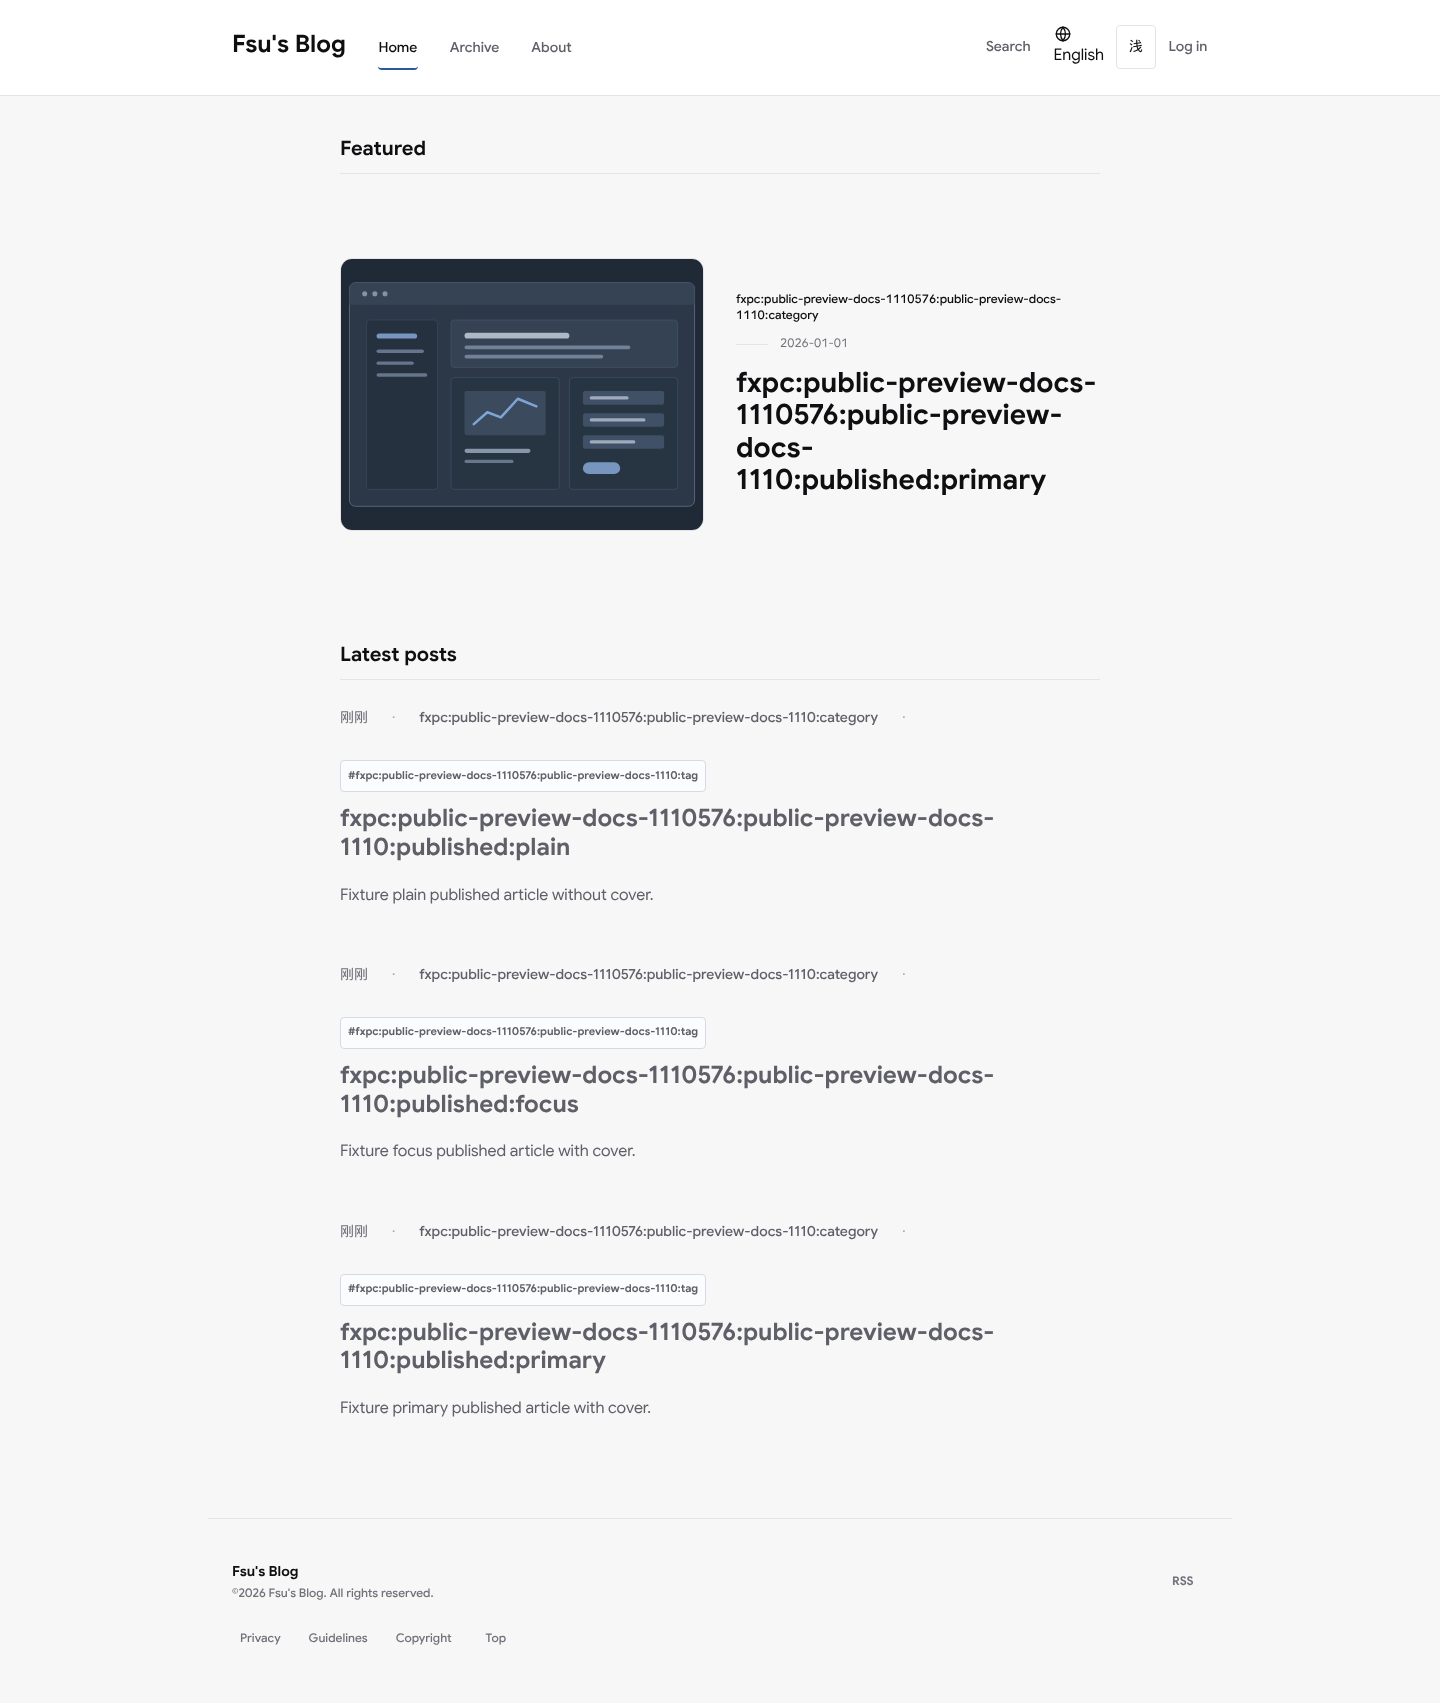
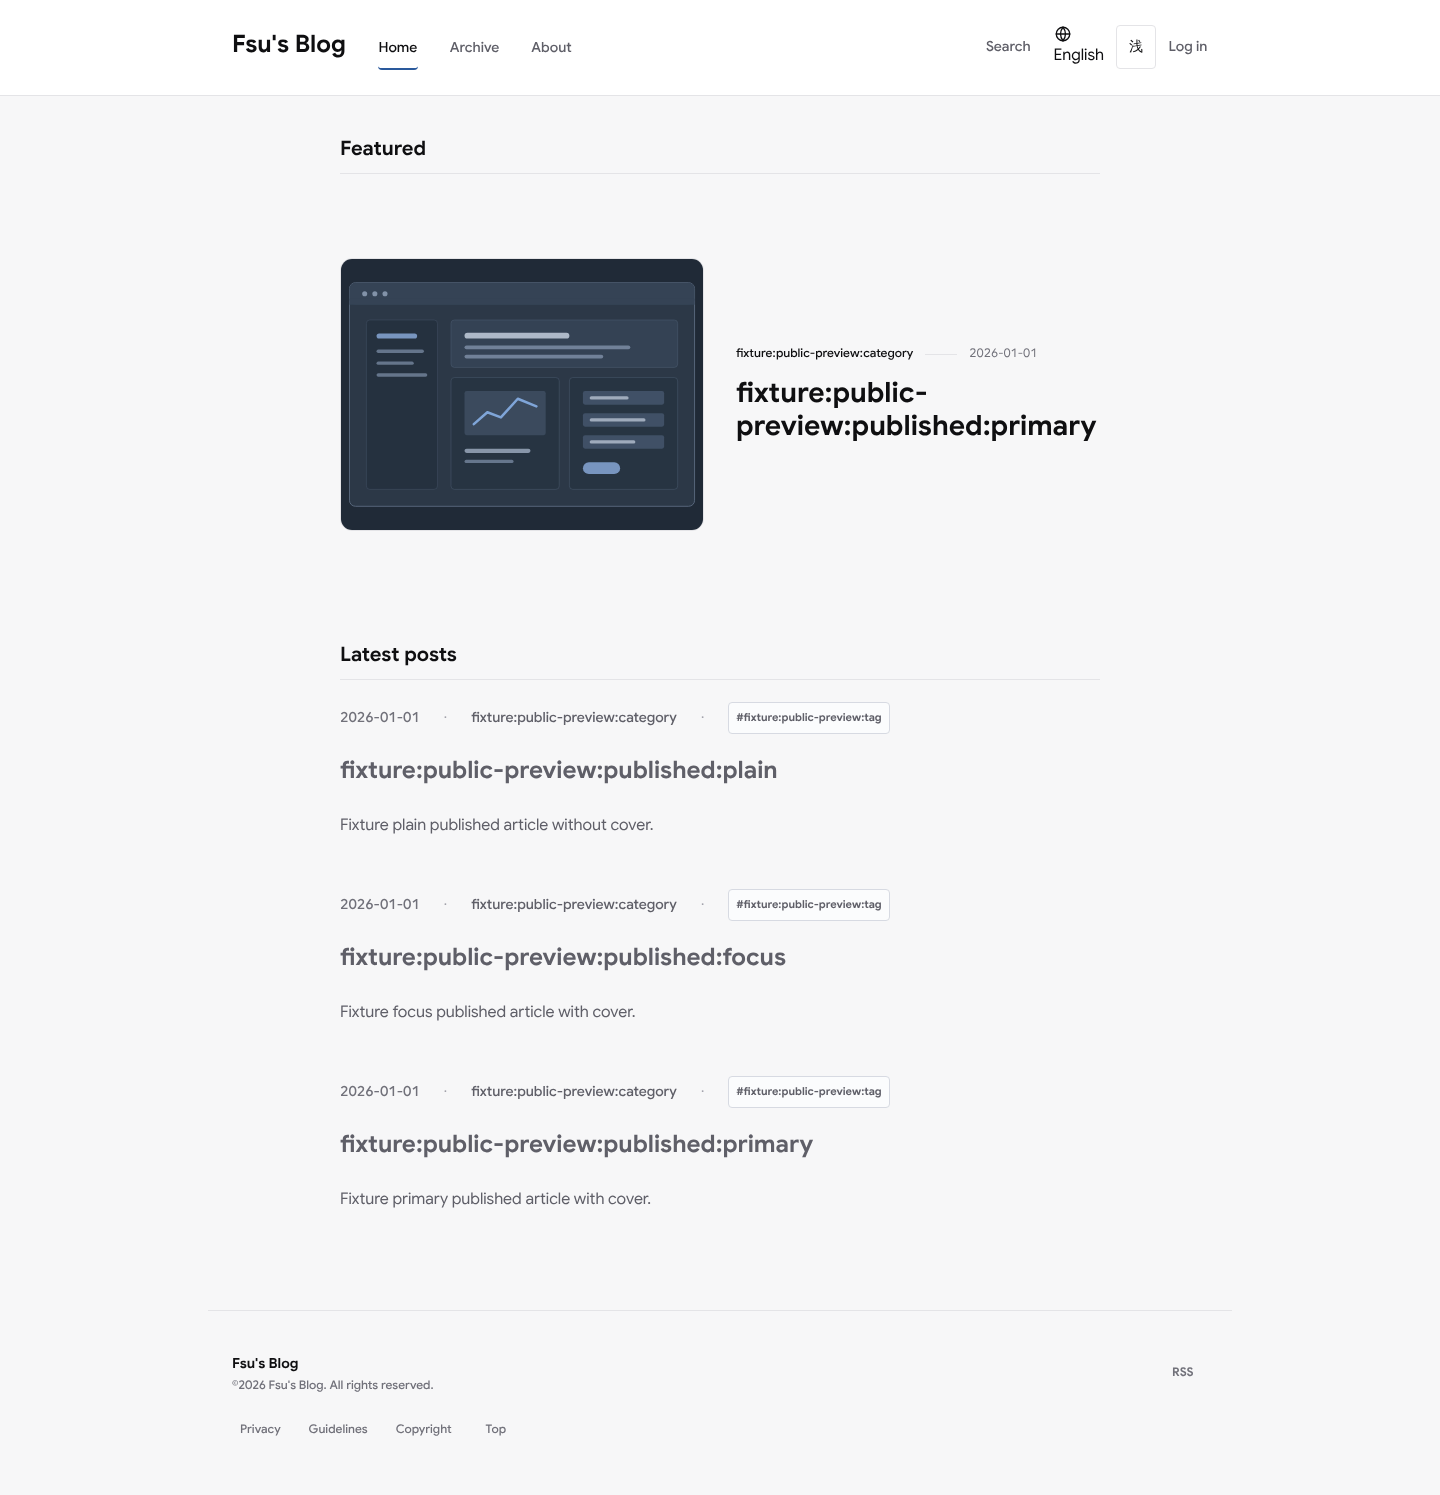
fix(governance): restore current static-governance baseline
Restore the current static-governance ownership registries, deterministic public-preview evidence, and bounded zero-downtime rehearsal coordination.\n\nRefs: #2859

diff --git a/tests/frontend/support/playwright/acceptance-shared.ts b/tests/frontend/support/playwright/acceptance-shared.ts
@@ -220,9 +220,13 @@ let acceptanceNodePowModulePromise: Promise<AcceptancePowRuntimeModule | null> |
 let acceptanceContextCounter = 0
 let acceptanceDeviceFingerprintCounter = 0
 
+function acceptanceMonotonicNow(): number {
+  return performance.now()
+}
+
 function nextAcceptanceId(scope: string): string {
   const workerIndex = process.env.TEST_PARALLEL_INDEX || process.env.TEST_WORKER_INDEX || '0'
-  return `${scope}-${workerIndex}-${process.pid}-${Date.now().toString(36)}-${++acceptanceDeviceFingerprintCounter}`
+  return `${scope}-${workerIndex}-${process.pid}-${++acceptanceDeviceFingerprintCounter}`
     .replace(/[^a-z0-9-]+/gi, '-')
     .slice(0, 96)
 }
@@ -648,13 +652,14 @@ export async function prewarmDevRuntime(
     for (const path of paths) {
       const checkpoint = session.audit.checkpoint()
       try {
-        const deadlineAtMs = Date.now() + WARMUP_TIMEOUT_MS
+        const deadlineAtMs = acceptanceMonotonicNow() + WARMUP_TIMEOUT_MS
         await navigateThroughRetryablePublicAot({
           navigate: async () => await session.page.goto(path, { waitUntil: 'domcontentloaded' }),
           sleep: async (delayMs: number) => await delay(delayMs),
-          deadlineAtMs
+          deadlineAtMs,
+          now: acceptanceMonotonicNow
         })
-        await waitForAppReady(session.page, Math.max(1, deadlineAtMs - Date.now()))
+        await waitForAppReady(session.page, Math.max(1, deadlineAtMs - acceptanceMonotonicNow()))
       } catch (error) {
         let readiness: unknown
         try {
@@ -868,7 +873,7 @@ function hasLeadingDifficulty(hash: Buffer, difficulty: number): boolean {
 function solvePowNonce(salt: string, browserFp: string, difficulty: number, deadlineMs = Number.POSITIVE_INFINITY): string {
   let nonce = 0
   while (true) {
-    if ((nonce & 0x0fff) === 0 && Date.now() > deadlineMs) {
+    if ((nonce & 0x0fff) === 0 && acceptanceMonotonicNow() > deadlineMs) {
       throw new Error(`acceptance node pow solver timed out for difficulty ${difficulty}`)
     }
 
@@ -930,7 +935,7 @@ function readAcceptanceCString(module: AcceptancePowRuntimeModule, ptr: number, 
 }
 
 function resolveAcceptancePowDeadline(timeoutMs: number): number {
-  return Date.now() + Math.max(1000, timeoutMs - 250)
+  return acceptanceMonotonicNow() + Math.max(1000, timeoutMs - 250)
 }
 
 function yieldToAcceptanceEventLoop(): Promise<void> {
@@ -954,7 +959,7 @@ async function solvePowNonceOptimized(salt: string, browserFp: string, difficult
 
   try {
     let startNonce = 0
-    while (Date.now() <= deadlineMs) {
+    while (acceptanceMonotonicNow() <= deadlineMs) {
       const remainingNonceSpace = 0x1_0000_0000 - startNonce
       const attempts = Math.min(acceptanceNodePowBatchSize, remainingNonceSpace)
       const resultLength = module._solve_pow_limited_c(saltPtr, fpPtr, difficulty, startNonce, attempts, outputPtr, 2048)
@@ -2696,9 +2701,15 @@ type DynamicScreenshotTextRule = Readonly<{
 
 export const DYNAMIC_SCREENSHOT_TEXT_RULES: readonly DynamicScreenshotTextRule[] = [
   { pattern: String.raw`\b\d{1,2}\/\d{1,2}\/\d{4},\s+\d{1,2}:\d{2}:\d{2}\s+(?:AM|PM)\b`, flags: 'gu', replacement: '1/1/2026, 12:00:00 AM' },
+  { pattern: String.raw`\b\d{1,2}\/\d{1,2}\s+\d{1,2}:\d{2}\b`, flags: 'gu', replacement: '01/01 12:00' },
   { pattern: String.raw`\b\d{4}-\d{2}-\d{2}\b`, flags: 'gu', replacement: '2026-01-01' },
   { pattern: String.raw`\b\d{4}年\d{1,2}月\d{1,2}日\b`, flags: 'gu', replacement: '2026年1月1日' },
-  { pattern: String.raw`\b\d+\s*小时前\b`, flags: 'gu', replacement: '2 小时前' },
+  {
+    pattern: String.raw`(?:刚刚|\d+\s*(?:分钟前|小时前)|(?:a few seconds|(?:a|an|one|\d+)\s+(?:minute|hour)s?)\s+ago)`,
+    flags: 'giu',
+    replacement: '2026-01-01'
+  },
+  { pattern: String.raw`\bfxpc:public-preview-docs-\d+:public-preview-docs-\d+:`, flags: 'gu', replacement: 'fixture:public-preview:' },
   { pattern: String.raw`\/home\/[^\s]+\/\.tmp\/data\/public-preview-docs-[A-Za-z0-9_.-]+\/backups`, flags: 'gu', replacement: '/workspace/.tmp/data/public-preview-docs-stable/backups' },
   { pathname: '/user/manage/ops', pattern: String.raw`\b\d+\s+\/\s+\d+\b`, flags: 'gu', replacement: '0 / 0' },
   { pathname: '/user/manage/ops', pattern: String.raw`\bqueued=\d+\b`, flags: 'gu', replacement: 'queued=0' }

diff --git a/tests/frontend/unit/playwright/acceptanceShared.test.ts b/tests/frontend/unit/playwright/acceptanceShared.test.ts
@@ -85,10 +85,18 @@ describe('playwright acceptance shared helper', () => {
   })
 
   it('normalizes screenshot evidence without changing unrelated route counters', () => {
-    const operationsEvidence = '检查时间：7/23/2026, 3:53:05 AM；队列 0 / 1；detail=queued=1, dropped=0'
+    const operationsEvidence = '检查时间：7/23/2026, 3:53:05 AM；最近更新 08/25 13:04；队列 0 / 1；detail=queued=1, dropped=0'
     expect(normalizeDynamicScreenshotText(operationsEvidence, '/user/manage/ops')).toBe(
-      '检查时间：1/1/2026, 12:00:00 AM；队列 0 / 0；detail=queued=0, dropped=0'
+      '检查时间：1/1/2026, 12:00:00 AM；最近更新 01/01 12:00；队列 0 / 0；detail=queued=0, dropped=0'
     )
+    expect(normalizeDynamicScreenshotText(
+      'fxpc:public-preview-docs-1883356:public-preview-docs-1883:published:primary',
+      '/article/1'
+    )).toBe('fixture:public-preview:published:primary')
+    expect(normalizeDynamicScreenshotText(
+      'Published刚刚 · Updateda minute ago · 3 hours ago · 4 分钟前',
+      '/article/1'
+    )).toBe('Published2026-01-01 · Updated2026-01-01 · 2026-01-01 · 2026-01-01')
     expect(normalizeDynamicScreenshotText('分页 2 / 7', '/user/manage/comments')).toBe('分页 2 / 7')
   })
 

diff --git a/tests/frontend/e2e/manual/manual-layout-screenshots.spec.ts b/tests/frontend/e2e/manual/manual-layout-screenshots.spec.ts
@@ -202,6 +202,10 @@ async function captureRouteScreenshot(page: Page, route: ManualRoute, viewport: 
   }
   await page.screenshot(screenshotOptions)
   await waitForScreenshotPaintStability(page)
+  // The warm-up full-page capture may activate lazy public islands that rewrite
+  // relative-time text. Re-normalize the final frame after those writes settle.
+  await normalizeDynamicEvidenceForScreenshot(page)
+  await waitForScreenshotPaintStability(page)
   const screenshot = await page.screenshot(screenshotOptions)
 
   await mkdir(path.dirname(outputPath), { recursive: true })

diff --git a/docs/configuration/backend-configuration-reference.generated.md b/docs/configuration/backend-configuration-reference.generated.md
@@ -6,7 +6,7 @@
 ASP.NET Core precedence remains: base appsettings < Production overlay < environment/Compose < explicit command line.
 
 - Application settings: 226
-- Tracked environment variables: 241
+- Tracked environment variables: 242
 - Mounted file classes: 4
 
 ## Application settings
@@ -276,7 +276,7 @@ ASP.NET Core precedence remains: base appsettings < Production overlay < environ
 | `APP_ALLOWED_HOSTS` | deployment-control | hosting | `AllowedHosts` | no | `.env.example`, `.env.production.example`, `ops/docker/docker-compose.production.yml` |
 | `ASPNETCORE_ENVIRONMENT` | application-configuration | release-lifecycle | `ASPNETCORE_ENVIRONMENT` | no | `ops/docker/docker-compose.development-backend.yml`, `ops/docker/docker-compose.production.yml`, `tools/deployment/rehearsal-schema-qualification-probe.mjs`, `tools/deployment/release-rollout.sh` |
 | `BASH_REMATCH` | tooling-only | development-tooling | None | no | `tools/deployment/slot-common.sh` |
-| `BASH_SOURCE` | tooling-only | development-tooling | None | no | `tools/deploy-production.sh`, `tools/deployment/deployment-control.sh`, `tools/deployment/gateway-recover.sh`, `tools/deployment/gateway-rollback.sh`, `tools/deployment/gateway-switch.sh`, `tools/deployment/release-rollout-recovery.sh`, `tools/deployment/release-rollout.sh`, `tools/deployment/slot-common.sh`, `tools/deployment/slot-inspect.sh`, `tools/deployment/slot-preflight.sh`, `tools/deployment/slot-start.sh`, `tools/deployment/slot-status.sh`, `tools/deployment/slot-stop.sh`, `tools/deployment/zero-downtime-rehearsal.sh`, `tools/deployment/zero-downtime-topology.sh` |
+| `BASH_SOURCE` | tooling-only | development-tooling | None | no | `tools/deploy-production.sh`, `tools/deployment/check-production-openresty-config.sh`, `tools/deployment/deployment-control.sh`, `tools/deployment/gateway-recover.sh`, `tools/deployment/gateway-rollback.sh`, `tools/deployment/gateway-switch.sh`, `tools/deployment/release-rollout-recovery.sh`, `tools/deployment/release-rollout.sh`, `tools/deployment/slot-common.sh`, `tools/deployment/slot-inspect.sh`, `tools/deployment/slot-preflight.sh`, `tools/deployment/slot-start.sh`, `tools/deployment/slot-status.sh`, `tools/deployment/slot-stop.sh`, `tools/deployment/zero-downtime-rehearsal.sh`, `tools/deployment/zero-downtime-topology.sh` |
 | `CHALLENGE_KIND_TARGET_MAP` | deployment-control | security | None | no | `tools/deployment/release-rollout.sh` |
 | `COMPlus_DbgEnableMiniDump` | tooling-only | development-tooling | None | no | `ops/docker/docker-compose.production.yml` |
 | `ConnectionStrings__DefaultConnection` | application-configuration | release-lifecycle | `ConnectionStrings:DefaultConnection` | no | `ops/docker/docker-compose.development-backend.yml`, `ops/docker/docker-compose.production.yml` |
@@ -483,6 +483,7 @@ ASP.NET Core precedence remains: base appsettings < Production overlay < environ
 | `SITE_BASEURL` | deployment-control | public-origin | `Fido2:Origins`, `Seo:BaseUrl` | no | `.env.example`, `.env.production.example`, `ops/docker/docker-compose.production.yml` |
 | `TARGET_RELEASE` | tooling-only | development-tooling | None | no | `tools/deployment/release-rollout.sh` |
 | `TIMEOUT_SECONDS` | tooling-only | development-tooling | None | no | `tools/deployment/deployment-control.sh` |
+| `TMPDIR` | tooling-only | development-tooling | None | no | `tools/deployment/check-production-openresty-config.sh` |
 | `TRANSITION_KIND` | tooling-only | development-tooling | None | no | `tools/deployment/gateway-switch.sh` |
 | `WORKER_OBSERVER_SERVICE_ROOT` | tooling-only | development-tooling | None | no | `tools/deployment/zero-downtime-rehearsal.sh` |
 
